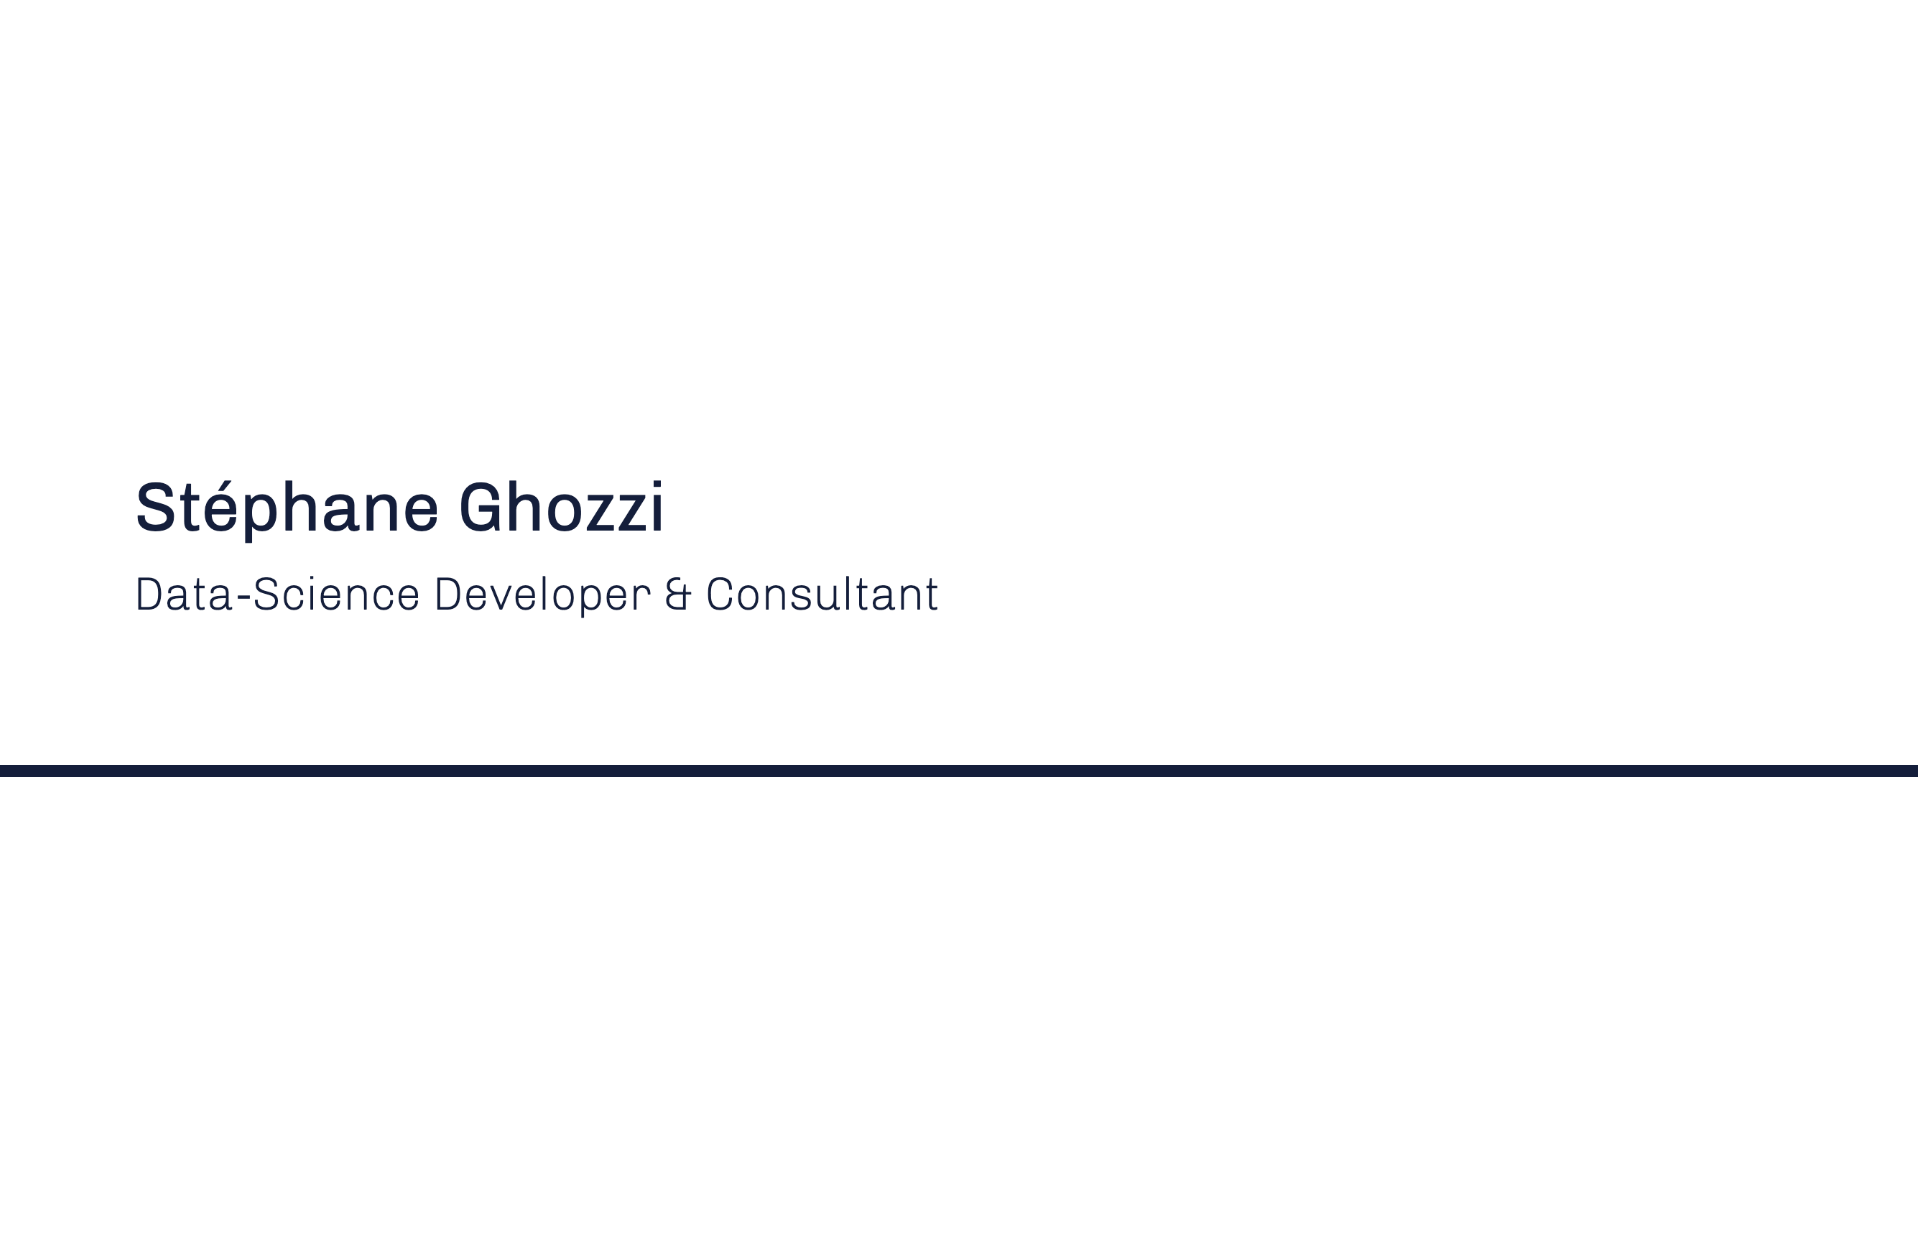
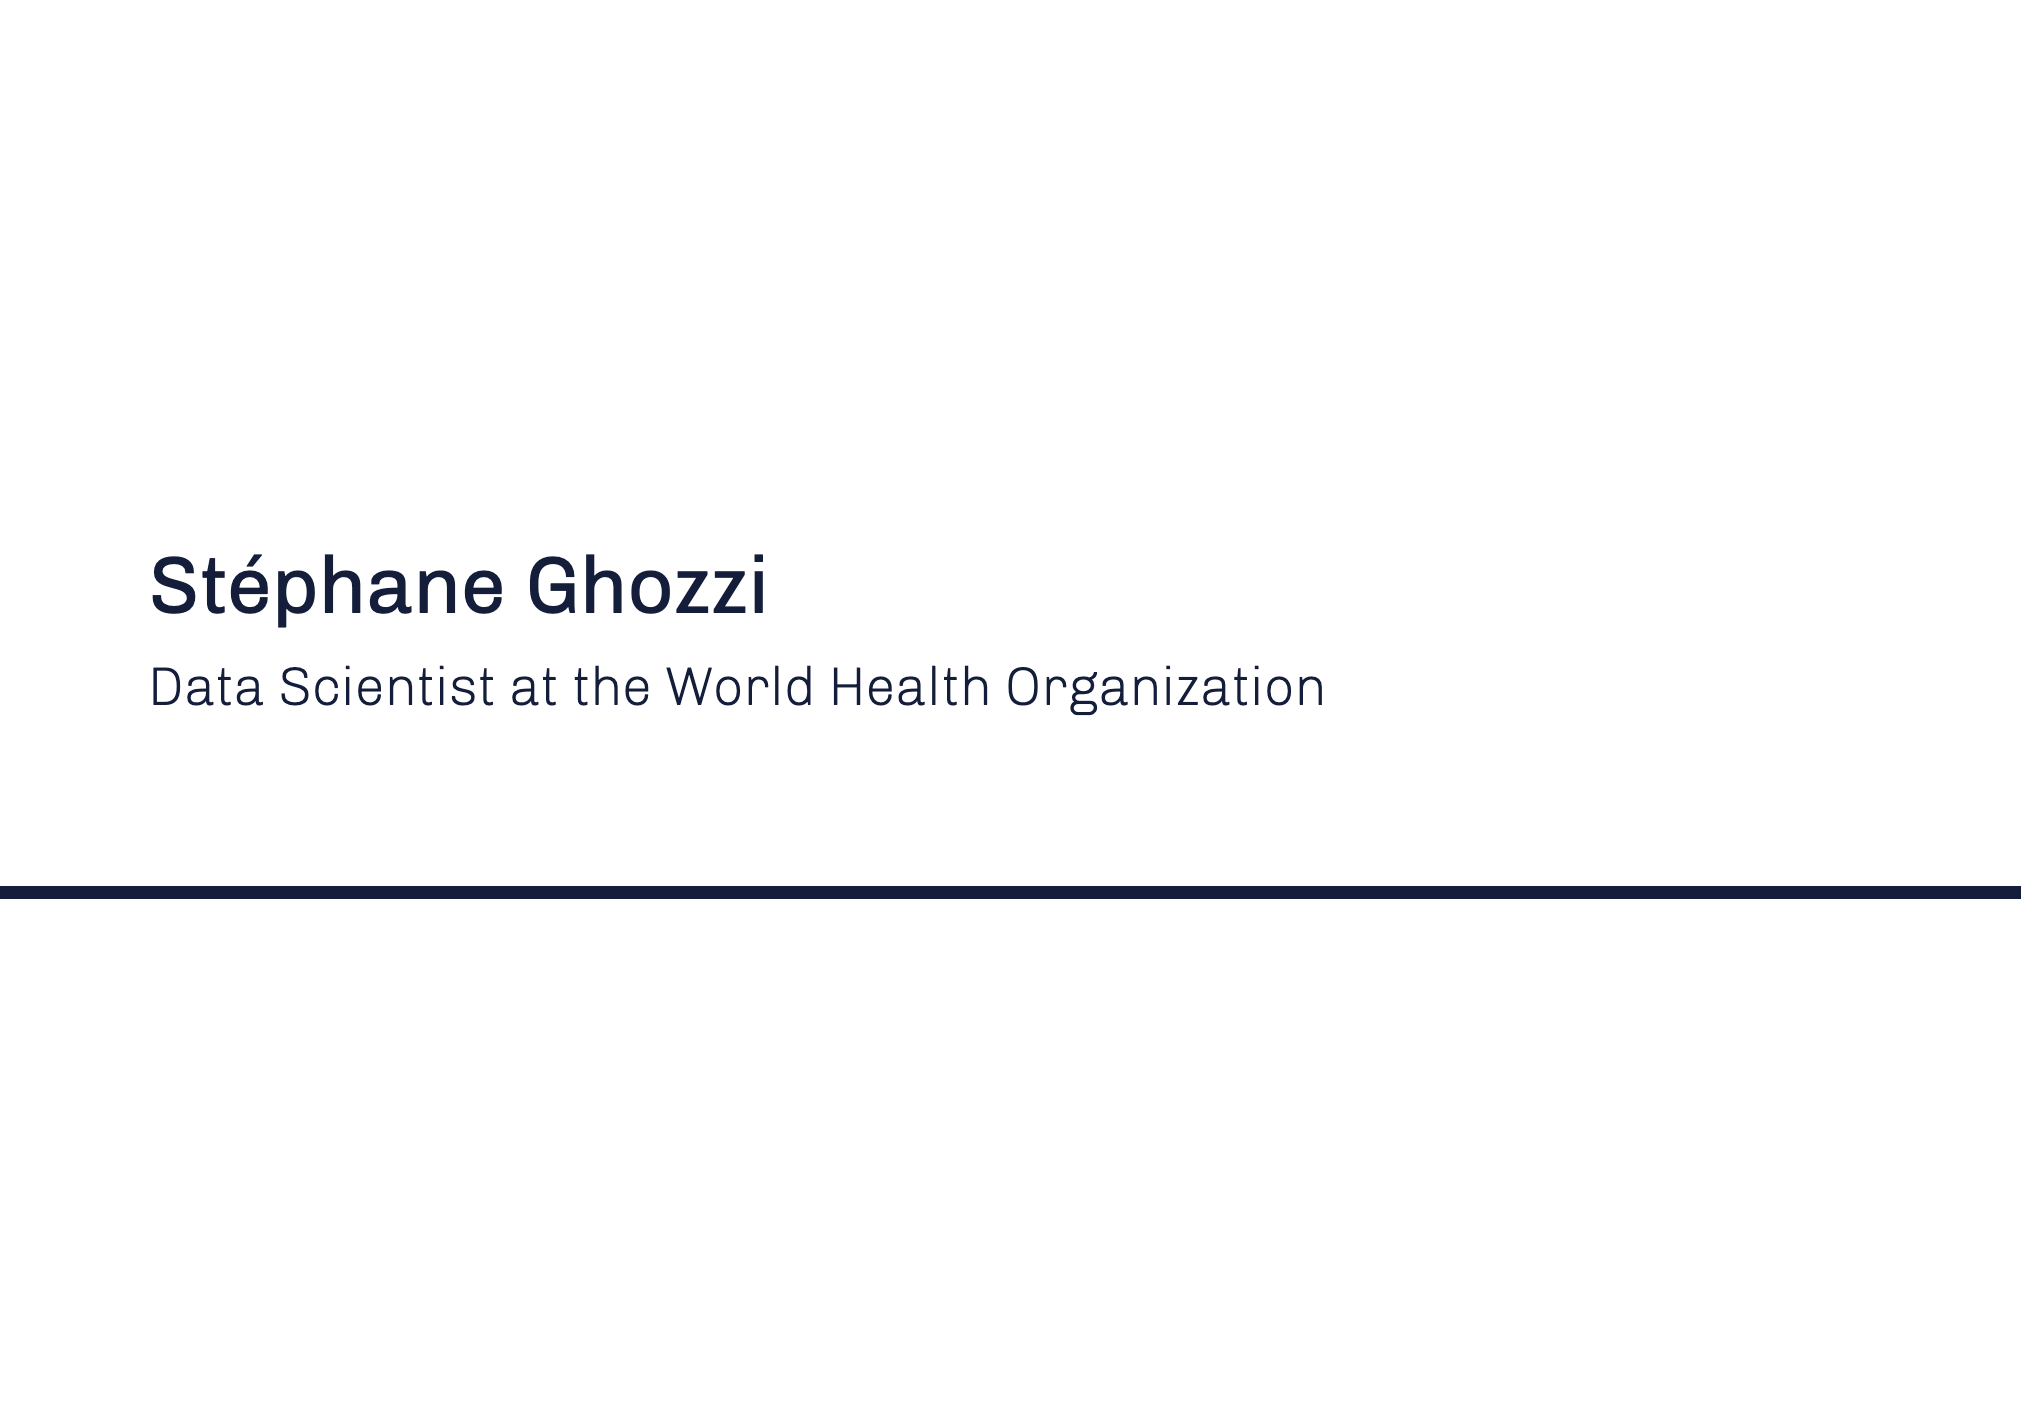
new job

Changed region(s): [[0.0615, 0.3692, 0.646, 0.5231], [0.0, 0.6154, 1.0, 0.6462]]

diff --git a/biography/index.html b/biography/index.html
@@ -5,7 +5,7 @@
 
 <head>
     <meta name="twitter:card" content="summary_large_image"/>
-<meta name="twitter:image" content="https://stephaneghozzi.com/img/card.png"/>
+<meta name="twitter:image" content="file:///Users/orson/git/personal-website/public/img/card.png"/>
 
 <meta name="twitter:title" content="biography"/>
 <meta name="twitter:description" content="more about me"/>
@@ -16,13 +16,13 @@
     <meta name="description" content="">
     <meta http-equiv="x-ua-compatible" content="ie=edge">
 
-    <link rel="icon" type="image/x-icon" href="/img/favicon.png">
+    <link rel="icon" type="image/x-icon" href="/Users/orson/git/personal-website/public/img/favicon.png">
     
     
         
         
         
-        <link href="/css/styles.css" rel="stylesheet">
+        <link href="/Users/orson/git/personal-website/public/css/styles.css" rel="stylesheet">
     
 
     <title>
@@ -87,7 +87,7 @@
 
 <nav class="navbar sg-navbar sticky-top bg-white border-bottom border-4 border-dark">
             
-        <a class="navbar-brand" href="/">Stéphane Ghozzi</a>
+        <a class="navbar-brand" href="/Users/orson/git/personal-website/public">Stéphane Ghozzi</a>
 
         <div class="d-flex ms-auto">
 
@@ -96,15 +96,15 @@
                 <ul class="nav justify-content-between">
                     
                         <li class="nav-item">
-                            <a href="/#home">home</a>
+                            <a href="/Users/orson/git/personal-website/public/#home">home</a>
                         </li>
                     
                         <li class="nav-item">
-                            <a href="/#projects">projects</a>
+                            <a href="/Users/orson/git/personal-website/public/#projects">projects</a>
                         </li>
                     
                         <li class="nav-item">
-                            <a href="/#about">about</a>
+                            <a href="/Users/orson/git/personal-website/public/#about">about</a>
                         </li>
                     
                 </ul>
@@ -181,15 +181,16 @@
             <p>I am an independent data scientist and consultant based in Berlin, Germany. A physics graduate, with PhD, of the École normale supérieure, I have worked as a mathematical modeller, coder and developer in fundamental and applied research. My main domains of expertise are physics, infectious-disease surveillance and epidemiology. Experimental biology and visual arts have also been part of my professional life.</p>
 <p>This lead me to live and work in five cities in four countries, and speak three languages fluently. I use the pronouns he/him. A full curriculum vitae in English can be downloaded <a href="
 
-/docs/cv-ghozzi.pdf">here</a> (pdf).</p>
+/Users/orson/git/personal-website/public/docs/cv-ghozzi.pdf">here</a> (pdf).</p>
 <p>My training and the beginning of my professional career were dedicated to scientific research in physics.</p>
 <p>I graduated from the École normale supérieure in Paris, France, in theoretical particle and statistical physics. After a Master of Arts in computer animation at the École nationale des Arts des décoratifs, Paris, I went back to scientific research and did a PhD on the experimental characterization of noise propagation in gene regulatory networks. After eight years in Paris, I came to Germany for a postdoc in Cologne on the mathematical modeling of bacterial fitness landscape and human-influenza evolution. Measurement errors and uncertainty quantification were central topics of my work in physics.</p>
 <p>I worked as visual artist for a while (a pdf portfolio as of 2014 can be downloaded <a href="
 
-/docs/portfolio-ghozzi.pdf">here</a>) before getting interested by machine learning for health: A lot was happening there and it was, technically speaking, quite close to what I knew from physics. What I did discover though and interested me particularly were the techniques and applications of quantitative model evaluation. My data-science career proper started when I joined the Robert Koch Institute, Germany&rsquo;s national public-health agency.</p>
+/Users/orson/git/personal-website/public/docs/portfolio-ghozzi.pdf">here</a>) before getting interested by machine learning for health: A lot was happening there and it was, technically speaking, quite close to what I knew from physics. What I did discover though and interested me particularly were the techniques and applications of quantitative model evaluation. My data-science career proper started when I joined the Robert Koch Institute, Germany&rsquo;s national public-health agency.</p>
 <p>Over a few years at RKI, my colleagues and I set up and grew a data-science team that developed and maintained analysis pipelines and dashboards for infectious-disease surveillance. To be relevant, this necessitated a constant dialogue with domain experts: epidemiologists as well as public-health agents. I grew more and more aware of societal aspects of data-collection and analysis software, especially given the sensitivity of population-health surveillance. At that time pioneering work about what is broadly called &ldquo;AI ethics&rdquo; was gaining widespread attention.</p>
-<p>My work at the World Health Organization and at the Helmholtz Centre for Infection Research continued and expanded this approach. My work came to be relevant for many different populations. I also came in contact with many different data sources and types, software, and topics beyond infectious disease.</p>
-<p>This confirmed to me that data science, from data collection and processing to statistical analysis and machine learning, to data visualization and interactive dashboards, was, in fact, a transversal topic to a variety of domains, and was often needed in self-contained projects. Thus, working as an independent developer and consultant was the best way for me to contribute to society as a data scientist.</p>
+<p>My work at the World Health Organization (WHO) and at the Helmholtz Centre for Infection Research continued and expanded this approach. My work came to be relevant for many different populations. I also came in contact with many different data sources and types, software, and topics beyond infectious disease.</p>
+<p>This confirmed to me that data science, from data collection and processing to statistical analysis and machine learning, to data visualization and interactive dashboards, was, in fact, a transversal topic to a variety of domains, and was often needed in self-contained projects. Thus, working as an independent developer and consultant was a great way for me to contribute to society as a data scientist.</p>
+<p>Since May 2023 I am a staff member of WHO and work as a data scientist at the <a href="https://pandemichub.who.int/">WHO Hub for Pandemic and Epidemic Intelligence</a> in Berlin. I provide and support data analysis and visualization for public health intelligence. One focus is enhancing event-based surveillance via the survey of online articles for the <a href="https://www.who.int/initiatives/eios">EIOS</a> community.</p>
 
 
         </div>

diff --git a/index.html b/index.html
@@ -6,7 +6,7 @@
 <head>
 	<meta name="generator" content="Hugo 0.101.0" />
     <meta name="twitter:card" content="summary_large_image"/>
-<meta name="twitter:image" content="https://stephaneghozzi.com/img/card.png"/>
+<meta name="twitter:image" content="file:///Users/orson/git/personal-website/public/img/card.png"/>
 
 <meta name="twitter:title" content="home"/>
 <meta name="twitter:description" content="Stéphane Ghozzi&#39;s personal site"/>
@@ -17,13 +17,13 @@
     <meta name="description" content="">
     <meta http-equiv="x-ua-compatible" content="ie=edge">
 
-    <link rel="icon" type="image/x-icon" href="/img/favicon.png">
+    <link rel="icon" type="image/x-icon" href="/Users/orson/git/personal-website/public/img/favicon.png">
     
     
         
         
         
-        <link href="/css/styles.css" rel="stylesheet">
+        <link href="/Users/orson/git/personal-website/public/css/styles.css" rel="stylesheet">
     
 
     <title>
@@ -88,7 +88,7 @@
 
 <nav class="navbar sg-navbar sticky-top bg-white border-bottom border-4 border-dark">
             
-        <a class="navbar-brand" href="/">Stéphane Ghozzi</a>
+        <a class="navbar-brand" href="/Users/orson/git/personal-website/public">Stéphane Ghozzi</a>
 
         <div class="d-flex ms-auto">
 
@@ -97,15 +97,15 @@
                 <ul class="nav justify-content-between">
                     
                         <li class="nav-item">
-                            <a href="/#home">home</a>
+                            <a href="/Users/orson/git/personal-website/public/#home">home</a>
                         </li>
                     
                         <li class="nav-item">
-                            <a href="/#projects">projects</a>
+                            <a href="/Users/orson/git/personal-website/public/#projects">projects</a>
                         </li>
                     
                         <li class="nav-item">
-                            <a href="/#about">about</a>
+                            <a href="/Users/orson/git/personal-website/public/#about">about</a>
                         </li>
                     
                 </ul>
@@ -191,7 +191,7 @@
                 
                 <div class="sg-presentation-intro">
                                 
-                        <p>Hello, I am a <strong>developer and consultant</strong> who helps conceive, set up and run <strong><em>honest</em> data-science projects</strong>. This includes: domain research; mathematics, statistics and machine learning; data processing, exploration and visualization. I facilitate and deliver <strong>reports</strong> and concept notes, <strong>code</strong> notebooks and packages, interactive <strong>graphics</strong>.</p>
+                        <p>Hello, I am a <strong>data scientist at the World Health Organization</strong> who helps conceive, set up and run <strong><em>honest</em> data-science projects</strong>. This includes: domain research; mathematics, statistics and machine learning; data processing, exploration and visualization. I facilitate and deliver <strong>reports</strong> and concept notes, <strong>code</strong> notebooks and packages, interactive <strong>graphics</strong>.</p>
 
                     
                 </div>
@@ -199,7 +199,7 @@
                 
                 <div class="sg-presentation-action">
                                 
-                        <p>Sounds interesting? <a href="/#about">Let&rsquo;s 
+                        <p>Sounds interesting? <a href="/Users/orson/git/personal-website/public/#about">Let&rsquo;s 
 
 
 
@@ -257,6 +257,7 @@
                         <div class="container sg-projects-content">
                             <p>Selected open-source data-science projects are listed here. Partners include the World Health Organization and the Robert Koch Institute. More can be found on <a href="https://gitlab.com/stephaneghozzi">GitLab</a> and <a href="https://github.com/stephaneghozzi">GitHub</a>.</p>
 <p>A list of scientific publications can be found on <a href="https://orcid.org/0000-0002-3911-9573">Orcid</a> or <a href="https://scholar.google.com/citations?user=uGVLwREAAAAJ">Google Scholar</a>.</p>
+<p>See also the projects of <a href="https://pandemichub.who.int/">WHO Hub for Pandemic and Epidemic Intelligence</a>, in particular <a href="https://www.who.int/initiatives/eios">EIOS</a>.</p>
 
                         </div>
                     
@@ -725,12 +726,12 @@
                 <div class="col-md-6 sg-about-bio">
                     
                         <div class="container">
-                            <p>I am an independent data scientist and consultant based in Berlin, Germany. A physics graduate, with PhD, of the École normale supérieure, I have worked as a mathematical modeller, coder and developer in fundamental and applied research. My main domains of expertise are physics, infectious-disease surveillance and epidemiology. Experimental biology and visual arts have also been part of my professional life.</p>
+                            <p>I am a data scientist at the World Health Organization Hub for Pandemic and Epidemic Intelligence in Berlin, Germany. A physics graduate, with PhD, of the École normale supérieure, I have worked as a mathematical modeller, coder and developer in fundamental and applied research. My main domains of expertise are physics, infectious-disease surveillance and epidemiology. Experimental biology and visual arts have also been part of my professional life.</p>
 <p>This lead me to live and work in five cities in four countries, and speak three languages fluently. I use the pronouns he/him.</p>
 <p>I love that data science is a transversal discipline, that allows one to work on diverse topics and collaborate with people from all walks of life.</p>
 <p><a href="
 
-/docs/cv-ghozzi.pdf">
+/Users/orson/git/personal-website/public/docs/cv-ghozzi.pdf">
 
 
 
@@ -744,7 +745,7 @@
     full cv <span class="sg-nobr">(pdf)<svg class="sg-icon"><use xlink:href="#arrow-right-link"/></svg></span>
 
 </a><br>
-<a href="/biography/">
+<a href="/Users/orson/git/personal-website/public/biography/">
 
 
 

diff --git a/404.html b/404.html
@@ -5,7 +5,7 @@
 
 <head>
     <meta name="twitter:card" content="summary_large_image"/>
-<meta name="twitter:image" content="https://stephaneghozzi.com/img/card.png"/>
+<meta name="twitter:image" content="file:///Users/orson/git/personal-website/public/img/card.png"/>
 
 <meta name="twitter:title" content="404 Page not found"/>
 <meta name="twitter:description" content="Stéphane Ghozzi&#39;s personal site"/>
@@ -16,13 +16,13 @@
     <meta name="description" content="">
     <meta http-equiv="x-ua-compatible" content="ie=edge">
 
-    <link rel="icon" type="image/x-icon" href="/img/favicon.png">
+    <link rel="icon" type="image/x-icon" href="/Users/orson/git/personal-website/public/img/favicon.png">
     
     
         
         
         
-        <link href="/css/styles.css" rel="stylesheet">
+        <link href="/Users/orson/git/personal-website/public/css/styles.css" rel="stylesheet">
     
 
     <title>
@@ -87,7 +87,7 @@
 
 <nav class="navbar sg-navbar sticky-top bg-white border-bottom border-4 border-dark">
             
-        <a class="navbar-brand" href="/">Stéphane Ghozzi</a>
+        <a class="navbar-brand" href="/Users/orson/git/personal-website/public">Stéphane Ghozzi</a>
 
         <div class="d-flex ms-auto">
 
@@ -96,15 +96,15 @@
                 <ul class="nav justify-content-between">
                     
                         <li class="nav-item">
-                            <a href="/#home">home</a>
+                            <a href="/Users/orson/git/personal-website/public/#home">home</a>
                         </li>
                     
                         <li class="nav-item">
-                            <a href="/#projects">projects</a>
+                            <a href="/Users/orson/git/personal-website/public/#projects">projects</a>
                         </li>
                     
                         <li class="nav-item">
-                            <a href="/#about">about</a>
+                            <a href="/Users/orson/git/personal-website/public/#about">about</a>
                         </li>
                     
                 </ul>
@@ -178,7 +178,7 @@
 
       <h2>page not found</h2>
 
-      <p><a href="/">Back to home page<svg class="sg-icon"><use xlink:href="#arrow-right-link" /></svg></a></p>
+      <p><a href="/Users/orson/git/personal-website/public">Back to home page<svg class="sg-icon"><use xlink:href="#arrow-right-link" /></svg></a></p>
 
     </div>
 
